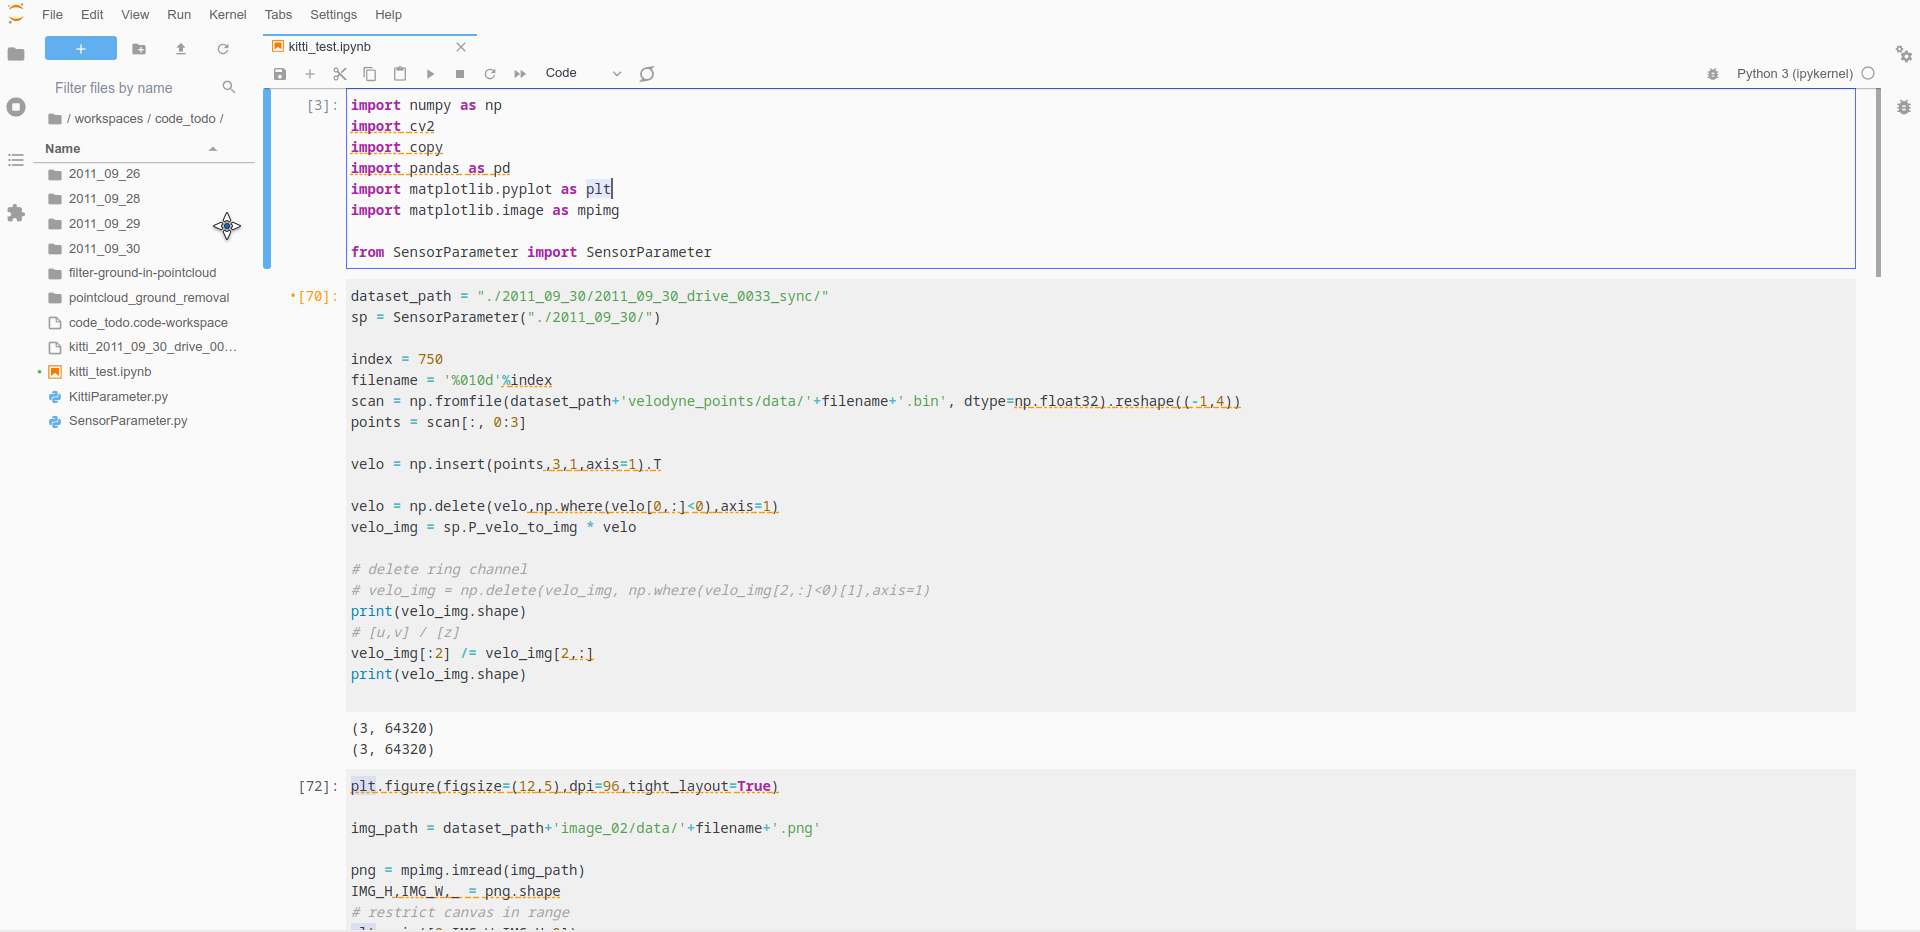
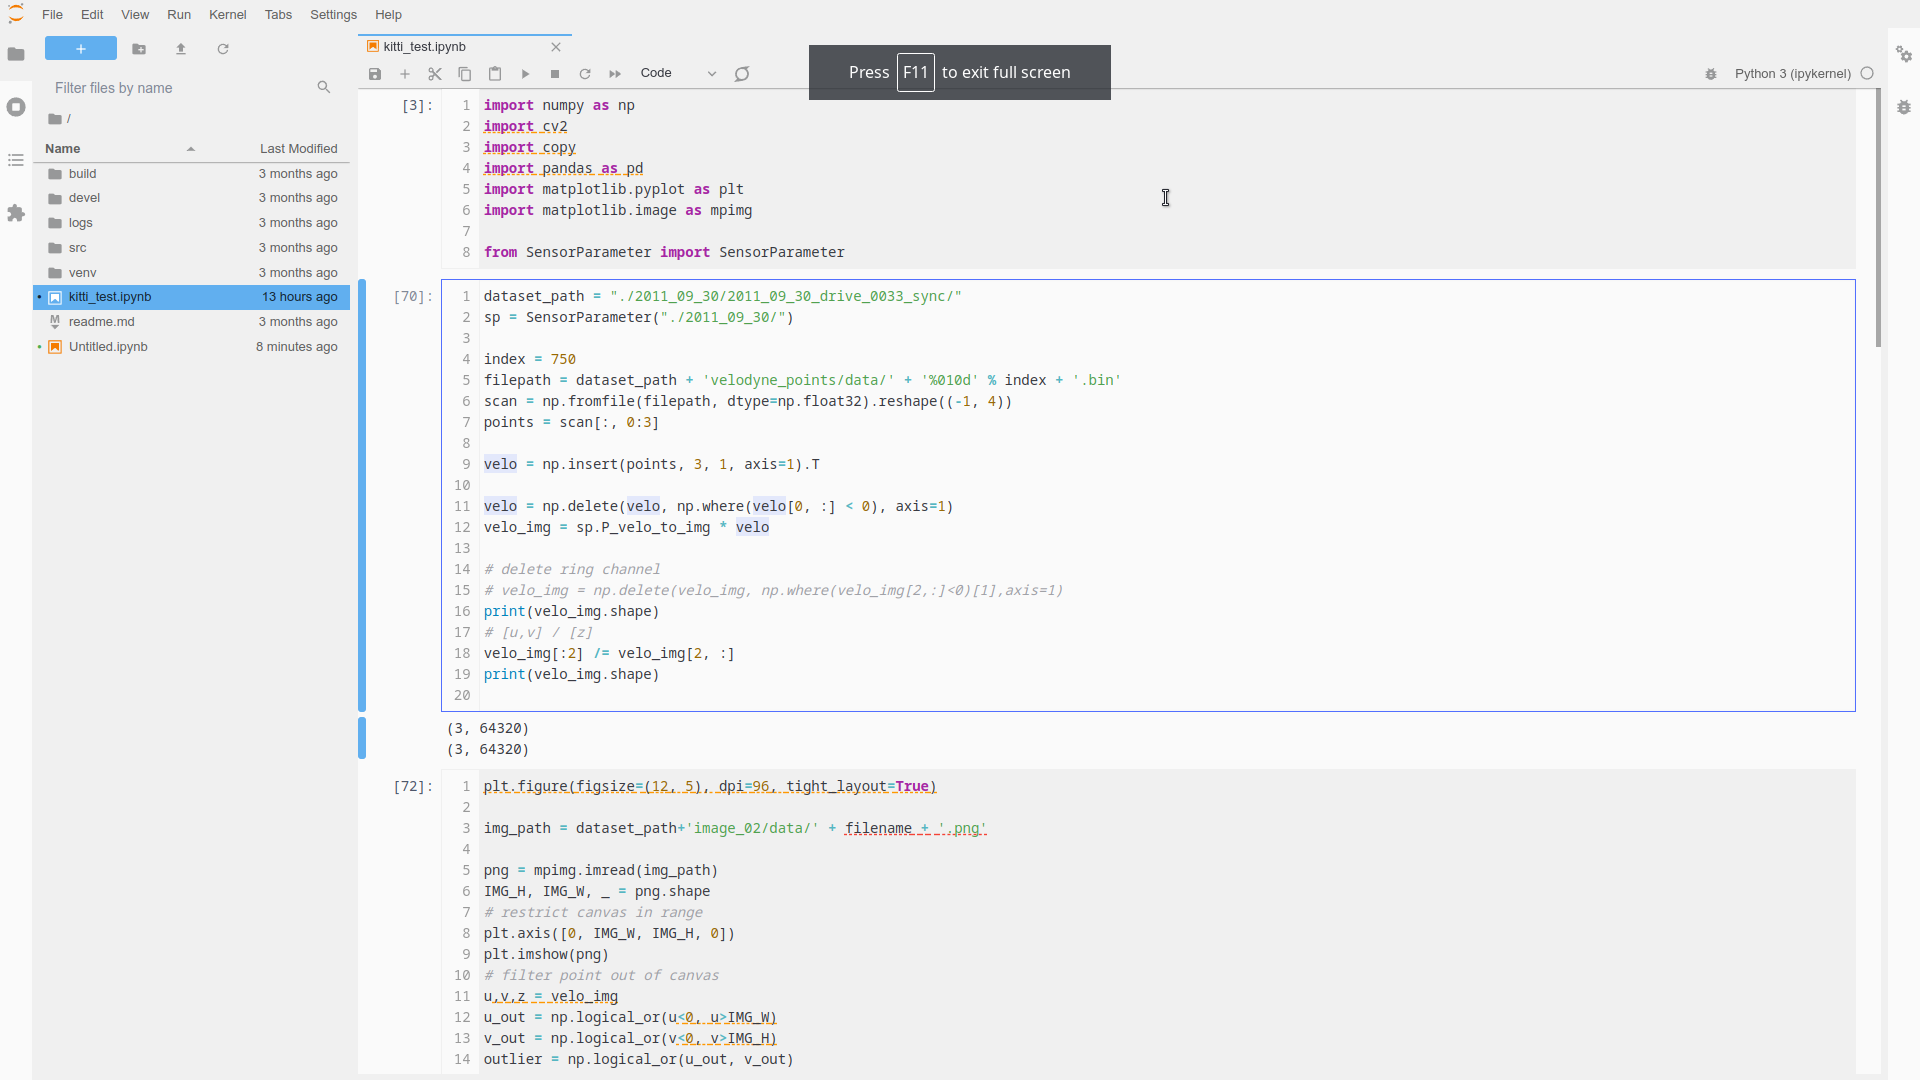
update styles

diff --git a/style/variables.css b/style/variables.css
@@ -51,6 +51,7 @@ all of MD as it is not optimized for dense, information rich UIs.
   --atom-one-light-foreground-0: #383A42;
   --atom-one-light-background-0: #FAFAFA;
   --atom-one-light-background-1: #f0f0f0;
+  --atom-one-light-background-2: #e0e0e0;
   --atom-one-light-off-white: #EEEEEE;
 
   --atom-one-light-button-gray: #12141766;
@@ -166,9 +167,9 @@ all of MD as it is not optimized for dense, information rich UIs.
    * The following variables, specify the visual styling of borders in JupyterLab.
    */
   --jp-border-width: 1px;
-  --jp-border-color0: var(--atom-one-light-background-0);
-  --jp-border-color1: var(--atom-one-light-background-0);
-  --jp-border-color2: var(--atom-one-light-background-0);
+  --jp-border-color0: var(--atom-one-light-background-1);
+  --jp-border-color1: var(--atom-one-light-background-1);
+  --jp-border-color2: var(--atom-one-light-background-1);
   --jp-border-color3: var(--atom-one-light-background-0);
   --jp-border-radius: 3px;
 
@@ -273,15 +274,15 @@ all of MD as it is not optimized for dense, information rich UIs.
    */
   /* Edit the background and stuff */
   --jp-layout-color0: var(--atom-one-light-background-0);
-  --jp-layout-color1: var(--atom-one-light-background-0);
+  --jp-layout-color1: var(--atom-one-light-background-1);
 
   /* these are for unselected tabs amongst other things... */
   --jp-layout-color2: var(--atom-one-light-background-0);
 
   /* this is for the area behind the tabs of the notebooks open */
-  --jp-layout-color3: var(--atom-one-light-background-0);
+  --jp-layout-color3: var(--atom-one-light-background-1);
 
-  --jp-layout-color4: var(--atom-one-light-background-0);
+  --jp-layout-color4: var(--atom-one-light-background-2);
 
   /* Colour for all the SVG buttons (sidebar, topbar etc) */
   --jp-icon-contrast-color0: var(--atom-one-light-button-gray);

diff --git a/readme.md b/readme.md
@@ -1,13 +1,22 @@
 # Atom One Light Theme for Jupyter Lab
 
-Inspired by [Vscode Atom One Light](https://github.com/akamud/vscode-theme-onelight) which is base on [Atom's One Light theme](https://github.com/atom/one-light-syntax).
+Inspired by [VSCode Atom One Light](https://github.com/akamud/vscode-theme-onelight) which is base on [Atom's One Light theme](https://github.com/atom/one-light-syntax).
 
 This project is under development. Many styles are not finished yet. Only test in Chrome 79 and Edge 79.
 
 ![screenshot](./img/screenshot.png)
 
+## Install
 
-Ref:  
+```shell
+git clone https://github.com/kuzen/jupyterlab-atom-one-light
+cd jupyterlab-atom-one-light
+npm install
+jupyter labextension install .
+```
+
+## Ref  
+
 <https://github.com/jupyterlab/jupyterlab/blob/master/packages/theme-light-extension/style/variables.css>
 
 <https://github.com/atom/one-light-ui>
